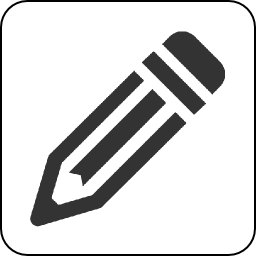
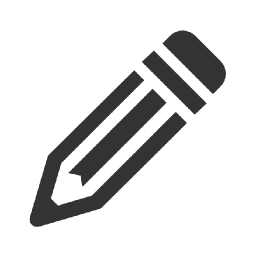
[cla]
- remove the icon borders
- add the version in the footer
- fix the header bar
- update the cache manifest and move to version 1.0.2

diff --git a/recipes-frontend/gulpfile.js b/recipes-frontend/gulpfile.js
@@ -20,7 +20,7 @@ gulp.task('clean', function () {
 });
 
 gulp.task('analyze', function () {
-    var basePath = path.resolve('./app/js/');
+    var basePath = path.resolve('./target/classes/js/');
     $$.util.log('Analyzing sources in ' + basePath);
 
     return gulp.src([basePath + '/**/*.js', '!./Content/bower_components/**/*'])
@@ -30,38 +30,33 @@ gulp.task('analyze', function () {
 });
 
 gulp.task('build-dev', function() {
-    gulp.src(['app/images/*.png', 'app/images/*.jpg', 'app/images/*.gif'])
+    gulp.src(['target/classes/images/*.png', 'target/classes/images/*.jpg', 'target/classes/images/*.gif'])
             .pipe(gulp.dest('dist/images'));
 
-    gulp.src(['app/partials/*.html'])
+    gulp.src(['target/classes/partials/*.html'])
         .pipe($$.htmlhint({'doctype-first': false}))
         .pipe($$.htmlhint.reporter())
         .pipe(gulp.dest('dist/partials'));
 
-    gulp.src(['app/bower_components/**/*'])
+    gulp.src(['target/classes/bower_components/**/*'])
         .pipe(gulp.dest('dist/bower_components'));
 
-    gulp.src(['app/js/**/*.js'])
+    gulp.src(['target/classes/js/**/*.js'])
         .pipe(gulp.dest('dist/js'));
 
-    gulp.src(['app/css/**/*.css'])
+    gulp.src(['target/classes/css/**/*.css'])
         .pipe(gulp.dest('dist/css'));
 
-    gulp.src(['app/*.appcache'])
-        .pipe(gulp.dest('dist'));
-
-    return gulp.src('app/index.html')
+    return gulp.src('target/classes/index.html')
         .pipe($$.debug({title: 'Processed output File: '}))
         .pipe(gulp.dest('dist'));
 });
 
 gulp.task('release', function() {
-    gulp.src(['app/images/*.png', 'app/images/*.jpg', 'app/images/*.gif'])
+    gulp.src(['target/classes/images/*.png', 'target/classes/images/*.jpg', 'target/classes/images/*.gif'])
         .pipe(gulp.dest('dist/images'));
-
-    gulp.src('app/recipes.appcache').pipe(gulp.dest('dist'));
     
-    var partials = gulp.src(['app/**/*.html', '!app/index.html', '!app/bower_components/**/*.html'])
+    var partials = gulp.src(['target/classes/**/*.html', '!target/classes/index.html', '!target/classes/bower_components/**/*.html'])
         .pipe($$.htmlhint({'doctype-first': false}))
         .pipe($$.htmlhint.reporter())
         .pipe($$.htmlmin({ removeComments: true }))
@@ -72,10 +67,10 @@ gulp.task('release', function() {
         //.pipe($$.rev())
         .pipe(gulp.dest('dist'));
 
-    gulp.src(['app/*.appcache'])
+    gulp.src(['target/classes/*.appcache'])
         .pipe(gulp.dest('dist'));
 
-    var main = gulp.src('app/*.html')
+    var main = gulp.src('target/classes/*.html')
         .pipe($$.useref())
         //.pipe(gulpif('*.js', $$.uglify()))
         //.pipe(gulpif('*.js', $$.rev()))
@@ -96,5 +91,5 @@ gulp.task('default', function(){
 });
 
 gulp.task('watch', function () {
-    gulp.watch(['./src/index.html', './src/app/**/*.js'], ['default']);
+    gulp.watch(['./target/classes/index.html', './target/classes/**/*.js'], ['default']);
 });

diff --git a/recipes-frontend/app/index.html b/recipes-frontend/app/index.html
@@ -30,8 +30,12 @@
       <div class="header-title">MyRecettes</div>
     </div>
 
-    <div ui-view ng-cloak>
+    <div ui-view ng-cloak class="content">
         <p>Opening...</p>
+    </div>
+
+    <div class="footer">
+        Version: ${recipes.version}
     </div>
 
     <!-- build:js vendor.js -->

diff --git a/recipes-frontend/app/partials/insert.html b/recipes-frontend/app/partials/insert.html
@@ -1,4 +1,4 @@
-<div class="content">
+<div>
     <input id="iptRecipeFile" type="file" file-model="file" accept=".pdf,.odt,.docx"/>
     <br /><br />
     <input style="width: 99%" type="text" ng-model="vm.name" ng-change="vm.textChanged()" placeholder="Nom" autofocus />

diff --git a/recipes-frontend/app/css/style.css b/recipes-frontend/app/css/style.css
@@ -8,9 +8,20 @@ body {
 }
 
 .header {
+  position: fixed;
   background-color: #ef6c00;
   color: white;
   height: 45px;
+  width: 100%;
+  top: 0px;
+}
+
+.content {
+  padding-top: 45px;
+}
+
+.footer {
+  width: 100%;
 }
 
 .header-title {

diff --git a/recipes-frontend/app/partials/search.result.html b/recipes-frontend/app/partials/search.result.html
@@ -1,4 +1,4 @@
-<div class="content">
+<div>
     <app-action display-back="true" on-click-back="back()" display-edit="true" on-click-edit="editRecipe()"></app-action>
     <div>
         <h1>{{vm.recipe.name}}</h1>

diff --git a/recipes-frontend/app/partials/edit.html b/recipes-frontend/app/partials/edit.html
@@ -1,4 +1,4 @@
-<div class="content">
+<div>
     <app-action display-back="true" on-click-back="back()"></app-action>
 
     <input id="iptRecipeFile" type="file" file-model="file" accept=".pdf,.odt,.docx"/>

diff --git a/recipes-frontend/app/partials/search.html b/recipes-frontend/app/partials/search.html
@@ -1,4 +1,4 @@
-<div class="content">
+<div>
     <!-- Search box -->
     <div>
         <input style="width: 99%" type="text" ng-model="vm.query" autofocus
